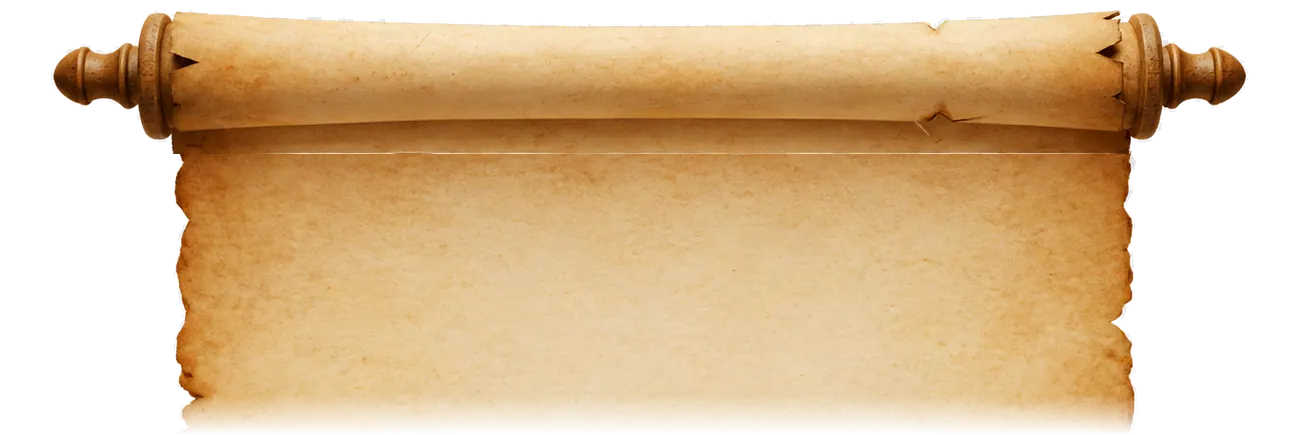
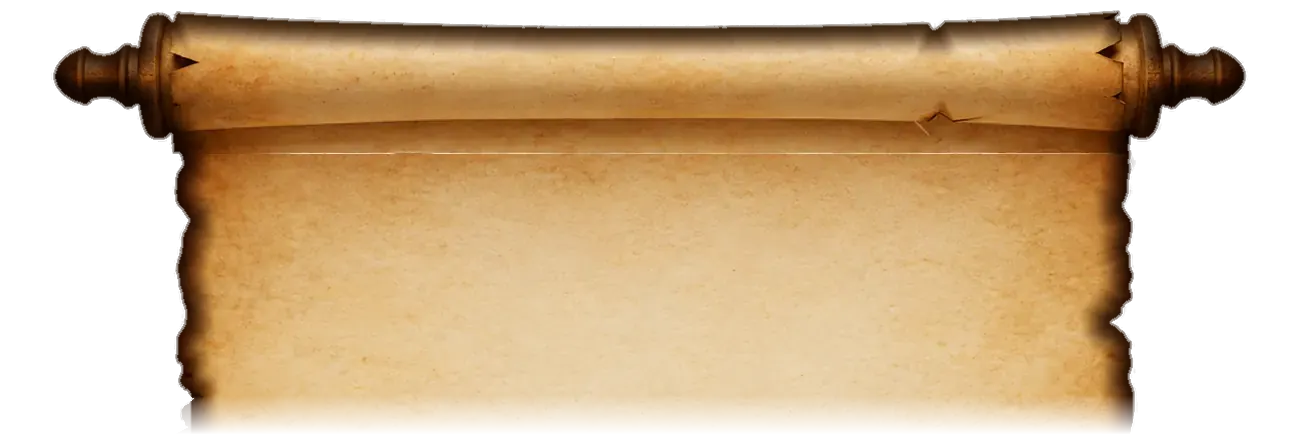
Bord du parchemin bruni et fondu dans le fond (V0.16)
Le papier s'assombrit progressivement vers le bord déchiré, comme un
papier roussi, et le contour est légèrement fondu : le parchemin ne
tranche plus sur le fond sombre. Images régénérées par
tools/parchemin/adoucir.py à partir des originaux gardés dans
tools/parchemin/brut/.

Claude-Session: https://claude.ai/code/session_018T6BW8Kgcimu5gmU6nSQr4

Changed region(s): [[0.0307, 0.0, 0.9808, 0.9862]]

diff --git a/sw.js b/sw.js
@@ -10,7 +10,7 @@
    Pensez à incrémenter CACHE_VERSION quand la liste PRECACHE change.
    ------------------------------------------------------------------ */
 
-const CACHE_VERSION = "v14";
+const CACHE_VERSION = "v15";
 const APP_CACHE = `fiches-bande-app-${CACHE_VERSION}`;
 const FONT_CACHE = "fiches-bande-fonts";
 

diff --git a/index.html b/index.html
@@ -260,7 +260,7 @@
 
   <footer class="footer-note">
     <p data-i18n="pied.confidentialite">Tout le traitement se fait dans votre navigateur : vos bandes ne sont jamais envoyées sur un serveur.</p>
-    <p>V0.15</p>
+    <p>V0.16</p>
   </footer>
 </div>
 

diff --git a/tools/parchemin/adoucir.py b/tools/parchemin/adoucir.py
@@ -1,0 +1,71 @@
+"""Brunit et adoucit le bord déchiré du parchemin.
+
+Lit les images brutes (tools/parchemin/brut/, sorties de split.py) et écrit
+les images du site (images/). Le papier est assombri progressivement sur les
+derniers pixels avant le bord, comme un papier roussi, et le contour est
+légèrement fondu : le parchemin ne tranche plus sur le fond sombre.
+
+    python3 tools/parchemin/adoucir.py tools/parchemin/brut images
+"""
+import sys
+import numpy as np
+from PIL import Image
+
+src, dst = sys.argv[1], sys.argv[2]
+
+LARGEUR = 34        # px (image de 1305 px) sur lesquels le bord est bruni
+SOMBRE = 0.30       # luminosité restante tout au bord
+TEINTE = np.array([0.78, 0.55, 0.33])  # brun roussi vers lequel tire le bord
+FONDU = 3           # px de contour rendus semi-transparents
+
+
+def distance_au_bord(opaque, maxi):
+    """Distance (en px, approchée) de chaque pixel opaque au vide le plus proche."""
+    d = np.zeros(opaque.shape, float)
+    m = opaque.copy()
+    for i in range(1, maxi + 1):
+        p = np.pad(m, 1, constant_values=False)
+        # Alternance croix / carré : distance octogonale, proche de l'euclidienne.
+        e = p[1:-1, 1:-1] & p[:-2, 1:-1] & p[2:, 1:-1] & p[1:-1, :-2] & p[1:-1, 2:]
+        if i % 2 == 0:
+            e &= p[:-2, :-2] & p[:-2, 2:] & p[2:, :-2] & p[2:, 2:]
+        d[m & ~e] = i
+        m = e
+    d[m] = maxi + 1
+    return d
+
+
+def traiter(nom, haut=0, bas=0, boucle=False):
+    img = np.asarray(Image.open(f"{src}/parchemin-{nom}.webp").convert("RGBA")).astype(float)
+    alpha = img[..., 3]
+    # Les raccords entre morceaux (lignes en fondu) ne sont pas des bords :
+    # on prolonge le contour au-delà pour ne pas les brunir.
+    pad = LARGEUR + 2
+    if boucle:
+        ext = np.concatenate([alpha[-pad:], alpha, alpha[:pad]])
+    else:
+        top = np.repeat(alpha[haut:haut + 1], pad, 0) if haut else np.zeros((pad, alpha.shape[1]))
+        bot = np.repeat(alpha[-bas - 1:alpha.shape[0] - bas], pad, 0) if bas else np.zeros((pad, alpha.shape[1]))
+        a2 = alpha.copy()
+        if haut:
+            a2[:haut] = alpha[haut]
+        if bas:
+            a2[-bas:] = alpha[-bas - 1]
+        ext = np.concatenate([top, a2, bot])
+    d = distance_au_bord(ext > 128, LARGEUR + 1)[pad:-pad]
+
+    t = np.clip(d / LARGEUR, 0, 1)
+    t = t * t * (3 - 2 * t)  # smoothstep
+    lum = SOMBRE + (1 - SOMBRE) * t
+    teinte = TEINTE + (1 - TEINTE) * t[..., None]
+    img[..., :3] *= lum[..., None] * teinte
+    img[..., 3] *= np.clip((d - 0.5) / FONDU, 0.35, 1)
+    Image.fromarray(img.round().clip(0, 255).astype(np.uint8), "RGBA").save(
+        f"{dst}/parchemin-{nom}.webp", "WEBP", quality=78, method=6
+    )
+
+
+# Fondus de raccord de split.py : 40 dernières lignes du haut, 50 premières du bas.
+traiter("haut", bas=40)
+traiter("milieu", boucle=True)
+traiter("bas", haut=50)
